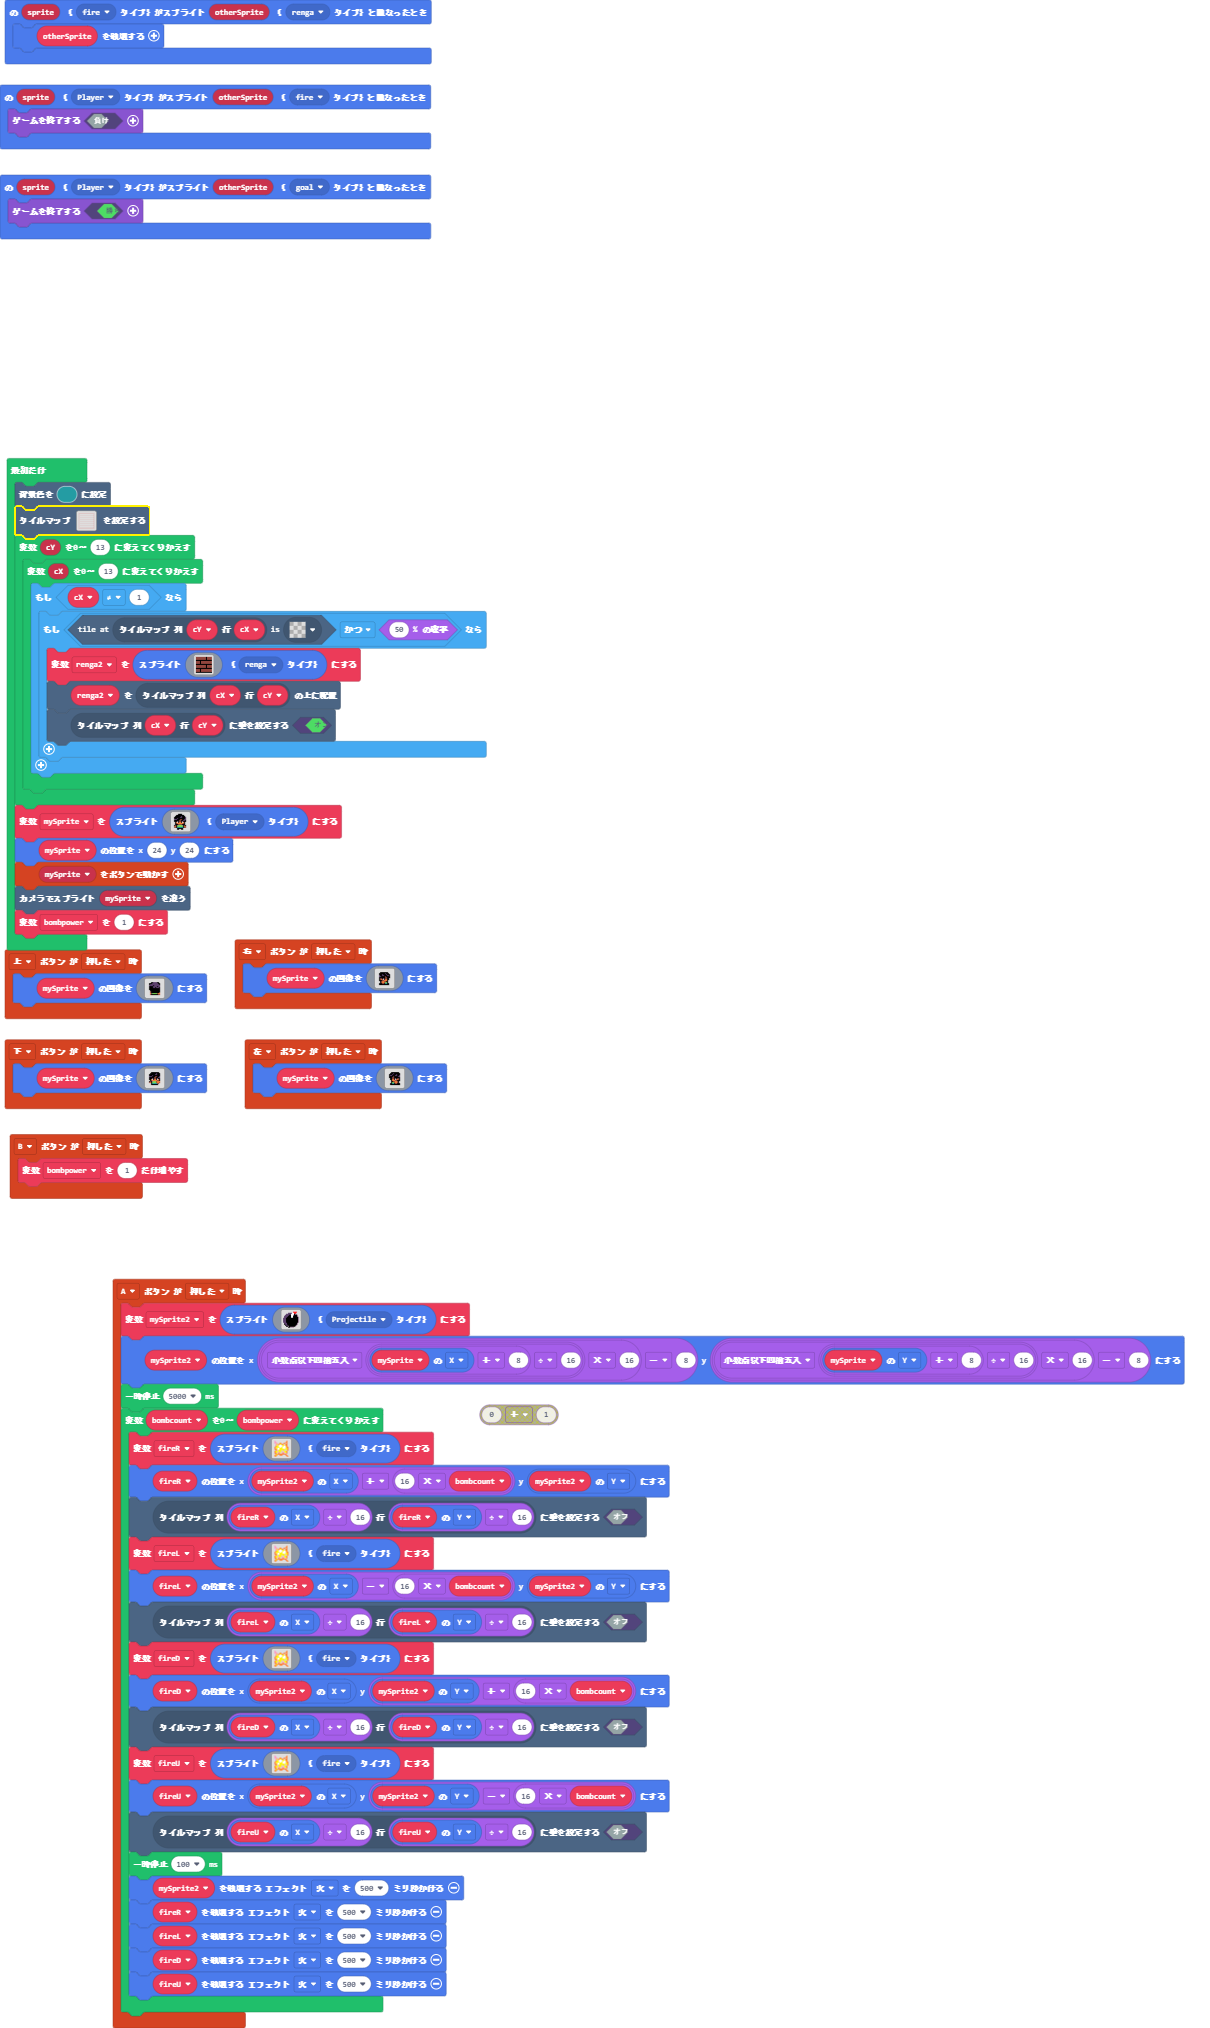
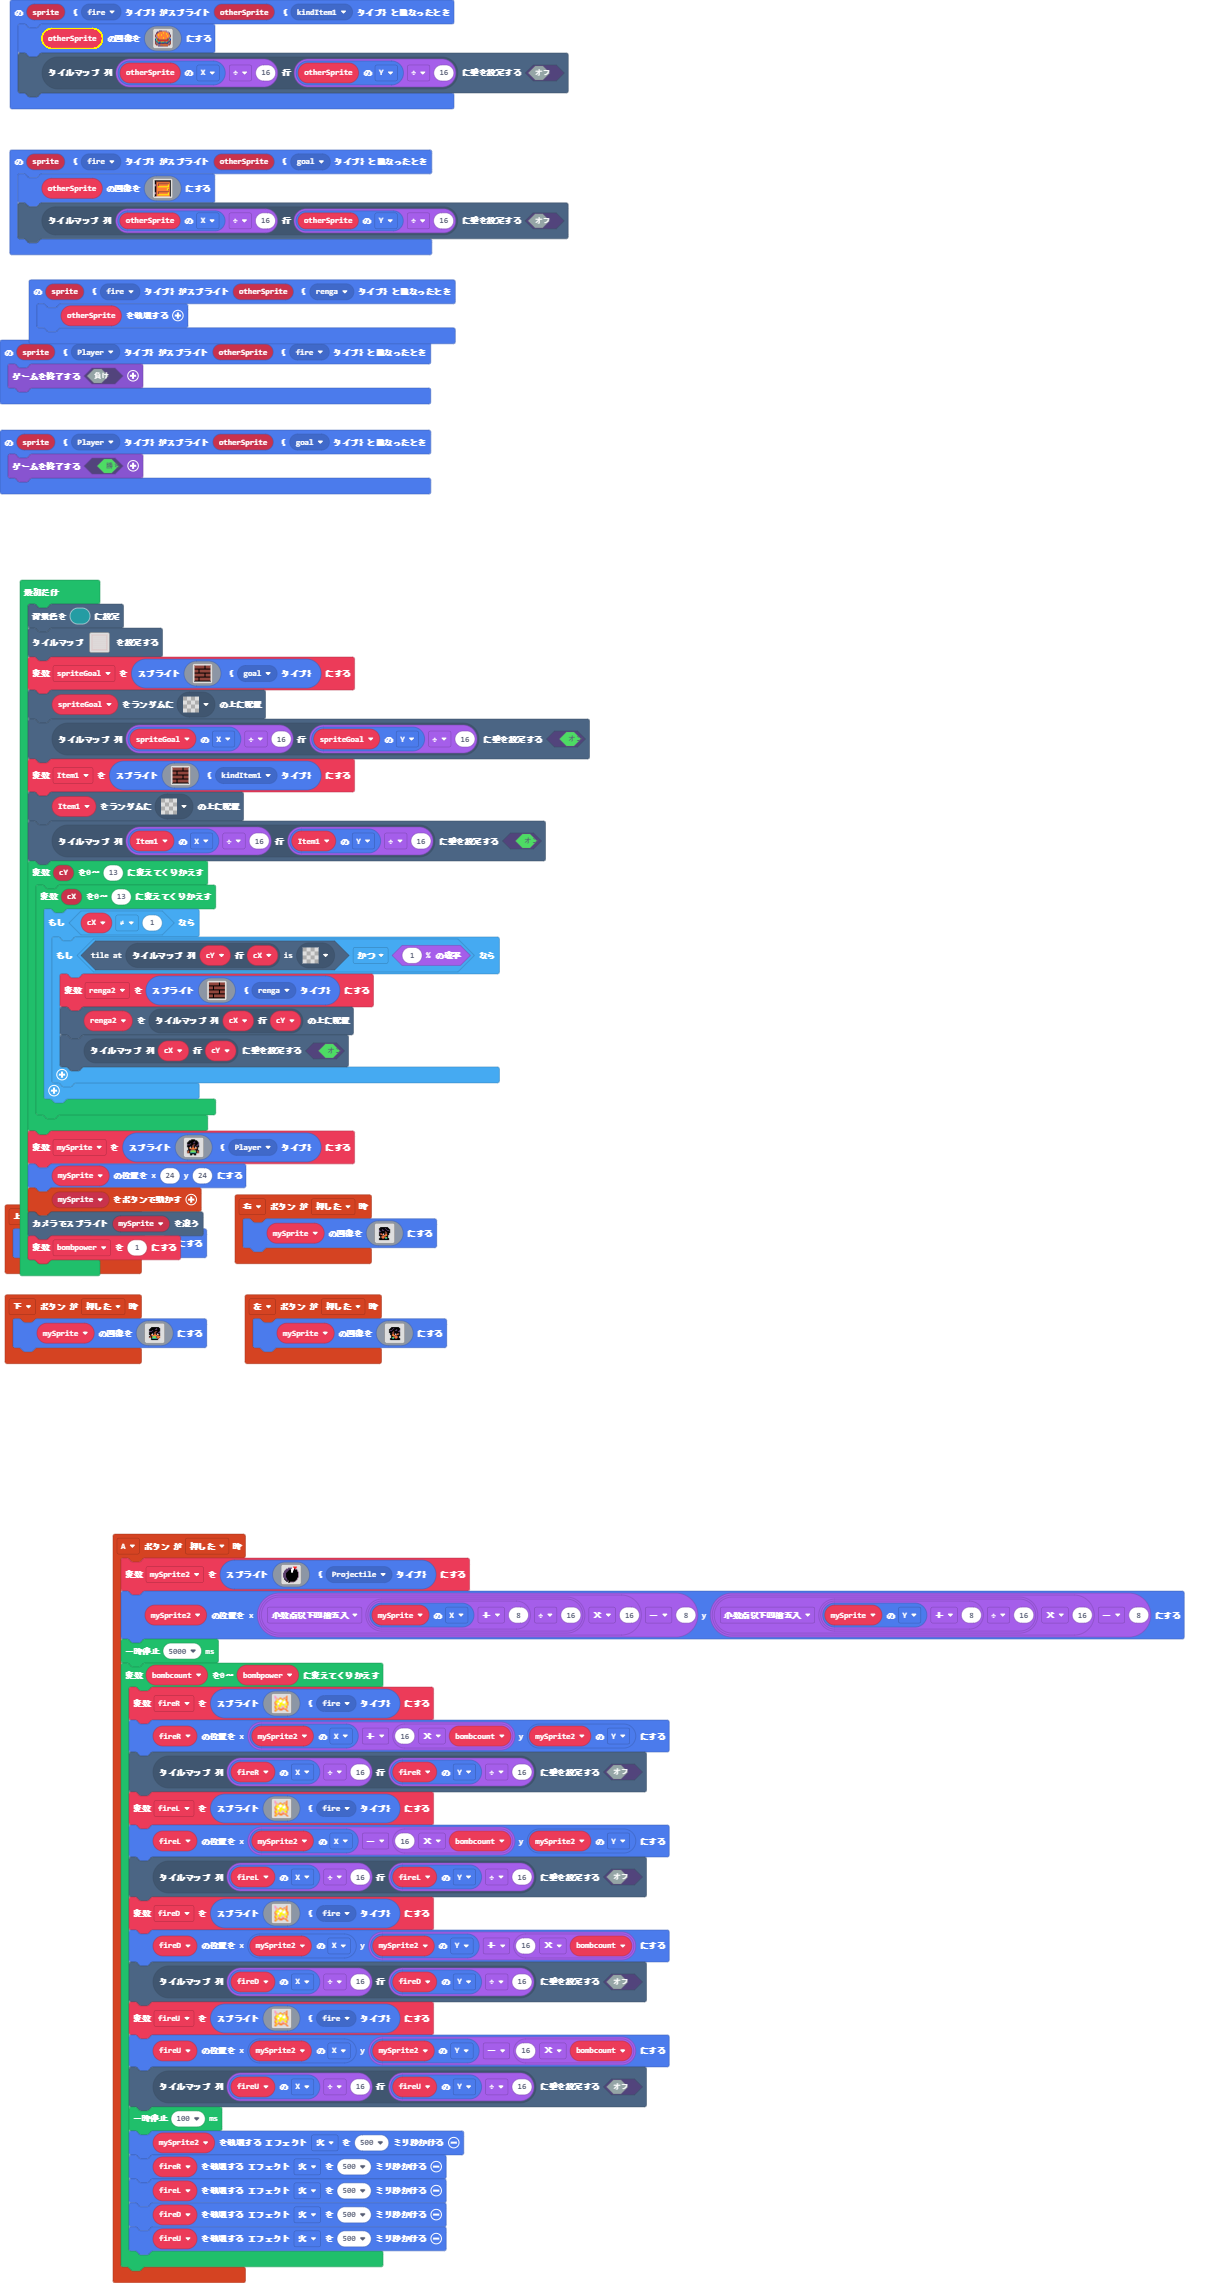
更新 main.blocks, main.ts

Changed region(s): [[0.0, 0.0, 0.9785, 0.9941], [0.0917, 0.9941, 0.1223, 1.0]]

diff --git a/main.ts b/main.ts
@@ -2,6 +2,9 @@ namespace SpriteKind {
     export const renga = SpriteKind.create()
     export const fire = SpriteKind.create()
     export const goal = SpriteKind.create()
+    export const spriteItem1 = SpriteKind.create()
+    export const spriteItem = SpriteKind.create()
+    export const kindItem1 = SpriteKind.create()
 }
 controller.right.onEvent(ControllerButtonEvent.Pressed, function () {
     mySprite.setImage(img`
@@ -22,6 +25,27 @@ controller.right.onEvent(ControllerButtonEvent.Pressed, function () {
         . f f f f f f f f f f . . 
         . . . . . . . . . . . . . 
         `)
+})
+sprites.onOverlap(SpriteKind.fire, SpriteKind.goal, function (sprite, otherSprite) {
+    otherSprite.setImage(img`
+        f f f f f f f f f f f f f f f f 
+        f e e e e e e e e e e e e e e f 
+        f e 4 4 4 4 4 4 4 4 4 4 4 4 4 f 
+        f e 4 e e e e e e e e e e e 4 f 
+        b e 4 e 4 4 4 4 4 4 4 4 4 5 4 f 
+        b e 4 e 4 4 4 4 4 4 4 4 4 5 4 f 
+        f e 4 5 5 5 5 5 5 5 5 5 5 5 4 f 
+        f e 4 4 4 4 4 4 4 4 4 4 4 4 4 f 
+        f e 4 4 4 4 4 4 4 4 4 4 5 5 4 f 
+        f e 4 4 4 4 4 4 4 4 4 4 5 e 4 f 
+        f e 4 4 4 4 4 4 4 4 4 4 4 4 4 f 
+        f e 4 e e e e e e e e e e e 4 f 
+        b e 4 e 4 4 4 4 4 4 4 4 4 5 4 f 
+        b e 4 e 4 4 4 4 4 4 4 4 4 5 4 f 
+        f e 4 5 5 5 5 5 5 5 5 5 5 5 4 f 
+        f e 4 4 4 4 4 4 4 4 4 4 4 4 4 f 
+        `)
+    tiles.setWallAt(tiles.getTileLocation(otherSprite.x / 16, otherSprite.y / 16), false)
 })
 sprites.onOverlap(SpriteKind.fire, SpriteKind.renga, function (sprite, otherSprite) {
     otherSprite.destroy()
@@ -49,6 +73,27 @@ controller.down.onEvent(ControllerButtonEvent.Pressed, function () {
         . . . . . . . . . . . . . 
         `)
 })
+sprites.onOverlap(SpriteKind.fire, SpriteKind.kindItem1, function (sprite, otherSprite) {
+    otherSprite.setImage(img`
+        . . . . c c c b b b b b . . . . 
+        . . c c b 4 4 4 4 4 4 b b b . . 
+        . c c 4 4 4 4 4 5 4 4 4 4 b c . 
+        . e 4 4 4 4 4 4 4 4 4 5 4 4 e . 
+        e b 4 5 4 4 5 4 4 4 4 4 4 4 b c 
+        e b 4 4 4 4 4 4 4 4 4 4 5 4 4 e 
+        e b b 4 4 4 4 4 4 4 4 4 4 4 b e 
+        . e b 4 4 4 4 4 5 4 4 4 4 b e . 
+        8 7 e e b 4 4 4 4 4 4 b e e 6 8 
+        8 7 2 e e e e e e e e e e 2 7 8 
+        e 6 6 2 2 2 2 2 2 2 2 2 2 6 c e 
+        e c 6 7 6 6 7 7 7 6 6 7 6 c c e 
+        e b e 8 8 c c 8 8 c c c 8 e b e 
+        e e b e c c e e e e e c e b e e 
+        . e e b b 4 4 4 4 4 4 4 4 e e . 
+        . . . c c c c c e e e e e . . . 
+        `)
+    tiles.setWallAt(tiles.getTileLocation(otherSprite.x / 16, otherSprite.y / 16), false)
+})
 controller.left.onEvent(ControllerButtonEvent.Pressed, function () {
     mySprite.setImage(img`
         . . . . . . . . . . . . . 
@@ -68,9 +113,6 @@ controller.left.onEvent(ControllerButtonEvent.Pressed, function () {
         . . f f f f f f f f f f . 
         . . . . . . . . . . . . . 
         `)
-})
-controller.B.onEvent(ControllerButtonEvent.Pressed, function () {
-    bombpower += 1
 })
 sprites.onOverlap(SpriteKind.Player, SpriteKind.goal, function (sprite, otherSprite) {
     game.over(true)
@@ -215,10 +257,50 @@ let mySprite: Sprite = null
 let renga2: Sprite = null
 scene.setBackgroundColor(6)
 tiles.setTilemap(tilemap`レベル1`)
+let spriteGoal = sprites.create(img`
+    e e e e e e e e e e f e e e e e 
+    e e e e e e e e e e f e e e e e 
+    e e e e e e e e e e f e e e e e 
+    f f f f f f f f f f f f f f f f 
+    e e e e f e e e e e e e e e e e 
+    e e e e f e e e e e e e e e e e 
+    e e e e f e e e e e e e e e e e 
+    f f f f f f f f f f f f f f f f 
+    e e e e e e e e e e f e e e e e 
+    e e e e e e e e e e f e e e e e 
+    e e e e e e e e e e f e e e e e 
+    f f f f f f f f f f f f f f f f 
+    e e e e f e e e e e e e e e e e 
+    e e e e f e e e e e e e e e e e 
+    e e e e f e e e e e e e e e e e 
+    f f f f f f f f f f f f f f f f 
+    `, SpriteKind.goal)
+tiles.placeOnRandomTile(spriteGoal, assets.tile`transparency16`)
+tiles.setWallAt(tiles.getTileLocation(spriteGoal.x / 16, spriteGoal.y / 16), true)
+let Item1 = sprites.create(img`
+    e e e e e e e e e e f e e e e e 
+    e e e e e e e e e e f e e e e e 
+    e e e e e e e e e e f e e e e e 
+    f f f f f f f f f f f f f f f f 
+    e e e e f e e e e e e e e e e e 
+    e e e e f e e e e e e e e e e e 
+    e e e e f e e e e e e e e e e e 
+    f f f f f f f f f f f f f f f f 
+    e e e e e e e e e e f e e e e e 
+    e e e e e e e e e e f e e e e e 
+    e e e e e e e e e e f e e e e e 
+    f f f f f f f f f f f f f f f f 
+    e e e e f e e e e e e e e e e e 
+    e e e e f e e e e e e e e e e e 
+    e e e e f e e e e e e e e e e e 
+    f f f f f f f f f f f f f f f f 
+    `, SpriteKind.kindItem1)
+tiles.placeOnRandomTile(Item1, assets.tile`transparency16`)
+tiles.setWallAt(tiles.getTileLocation(Item1.x / 16, Item1.y / 16), true)
 for (let cY = 0; cY <= 13; cY++) {
     for (let cX = 0; cX <= 13; cX++) {
         if (cX != 1) {
-            if (tiles.tileAtLocationEquals(tiles.getTileLocation(cY, cX), assets.tile`transparency16`) && Math.percentChance(50)) {
+            if (tiles.tileAtLocationEquals(tiles.getTileLocation(cY, cX), assets.tile`transparency16`) && Math.percentChance(1)) {
                 renga2 = sprites.create(img`
                     e e e e e e e e e e f e e e e e 
                     e e e e e e e e e e f e e e e e 
